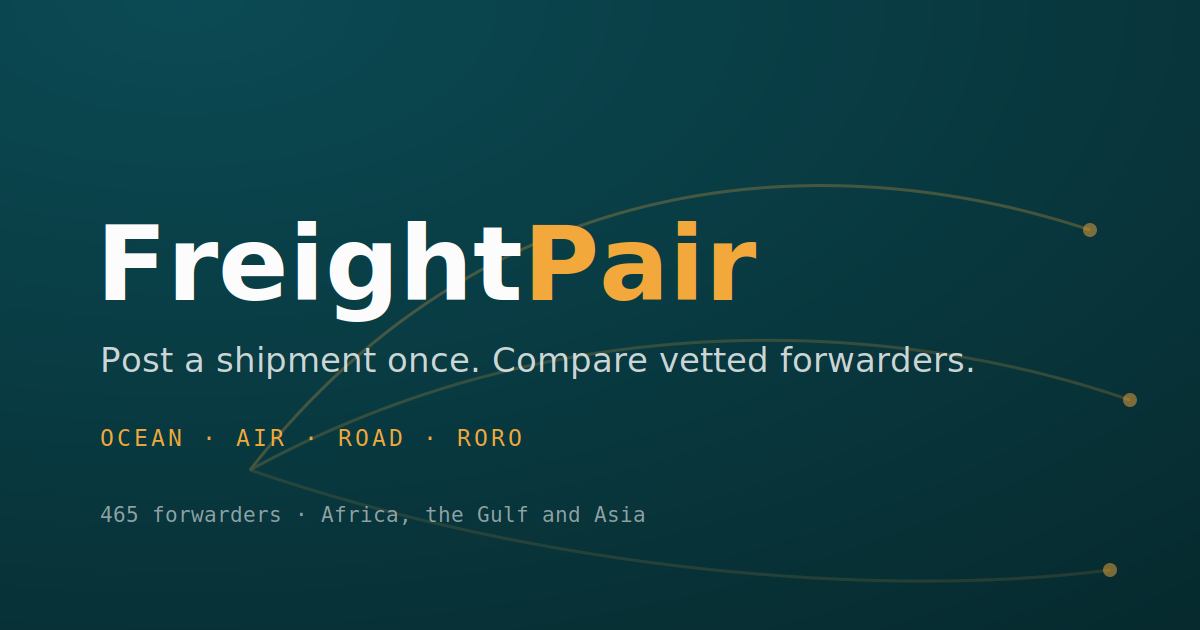
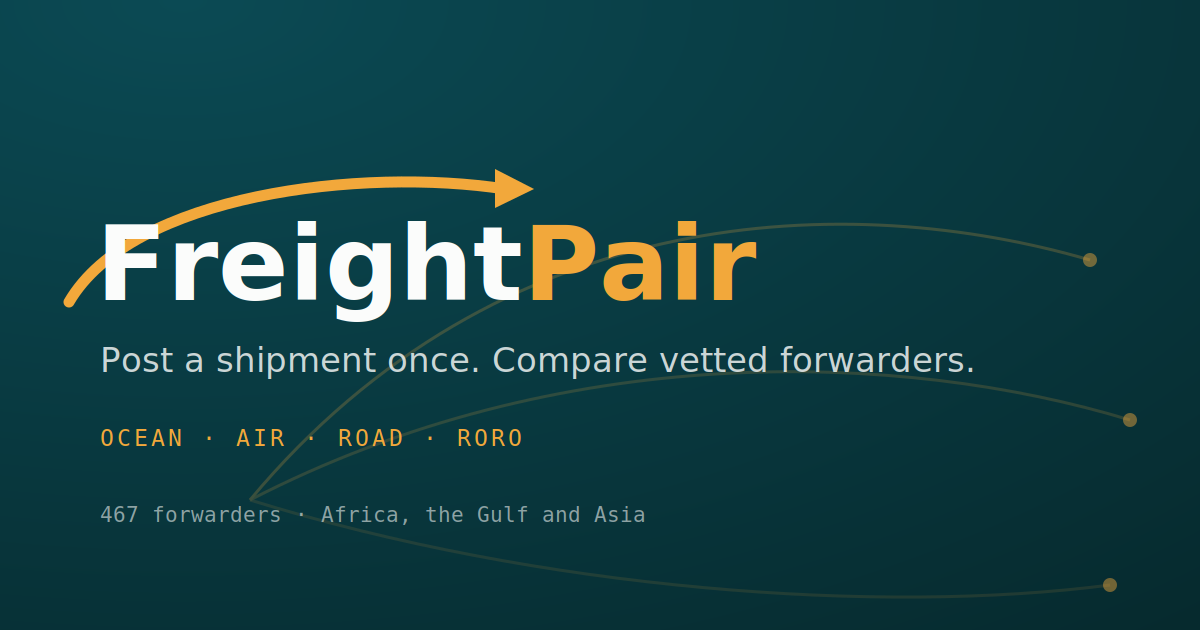
Add the route arc to the two-tone wordmark
Combines the two options: the name stays split in colour, and the saffron arc
from the route lockup now sweeps over it. The arrowhead lands where Freight
ends and Pair begins, so the journey delivers you to the pair — arc and
destination share a colour deliberately.

- The arc is an absolutely positioned SVG over real HTML text, not SVG text,
  so the name stays selectable and renders in the site's own loaded font
- All offsets are in em and derived from the artwork, so the lockup scales
  from a single font-size. leading-none is required: it pins the line box at
  1em so the baseline is predictable and the arc cannot drift
- withRoute defaults to OFF. The offsets are tuned to the lowercase wordmark;
  the auth pages set it uppercase with 0.18em tracking, which changes the
  proportions enough that the arc would miss Pair entirely. Navbar and footer
  opt in
- Favicon is now the arc and arrowhead rather than the P; arrowhead verified
  still legible at 16px
- og.png rebuilt to match

Verified the arc clears the letterforms rather than sitting on them.

diff --git a/components/Wordmark.tsx b/components/Wordmark.tsx
@@ -1,25 +1,61 @@
-// The FreightPair logo.
+// The FreightPair logo: the name in two colours, with a route arcing over it.
 //
-// There is no separate symbol: the logo IS the name, split in two colours —
-// "Freight" in ink, "Pair" in saffron. The pairing the product is named for is
-// carried by the colour break itself rather than by a mark bolted alongside it.
+// "Freight" in ink, "Pair" in saffron — the pairing the product is named for
+// is carried by the colour break itself. The saffron arc lifts off left of the
+// F, sweeps over "Freight", and its arrowhead lands where "Pair" begins. Route
+// and destination are the same colour on purpose: the journey delivers you to
+// the pair.
 //
-// Practical consequence: a two-tone treatment of our own name cannot collide
-// with anyone else's mark the way an abstract shape can, and there is no
-// symbol to redraw when the brand grows.
+// The arc is an absolutely positioned SVG sitting OVER real HTML text, rather
+// than SVG <text>. The name stays selectable, searchable and rendered in the
+// site's own font at whatever weight the browser has actually loaded.
 //
-// Sizing and tracking are passed in by the caller, because the navbar, footer
-// and auth pages each want a different treatment of the same logo.
+// Every offset below is in em, so the whole lockup scales from one font-size.
+// They are derived from the drawn artwork: the arc spans from 0.31em left of
+// the F to 4.21em right of it (where "Pair" starts), and rises 1.33em above
+// the baseline. leading-none is required — it fixes the line box at 1em so the
+// baseline sits predictably and the arc cannot drift.
+const ROUTE = {
+  left: "-0.31em",
+  top: "-0.53em",
+  width: "4.52em",
+  height: "1.42em",
+};
+
 export default function Wordmark({
   className = "font-display font-bold text-[19px] tracking-[-0.01em]",
   onDark = false,
+  withRoute = false,
 }: {
   className?: string;
   /** On dark grounds "Freight" flips to paper; ink would be invisible. */
   onDark?: boolean;
+  /**
+   * Draw the route arc. Off by default because the offsets above are tuned to
+   * the lowercase wordmark; uppercase or heavily tracked settings change the
+   * proportions and the arc would no longer land on "Pair".
+   */
+  withRoute?: boolean;
 }) {
   return (
-    <span className={className}>
+    <span className={`relative inline-block leading-none ${className}`}>
+      {withRoute && (
+        <svg
+          viewBox="0 0 394 124"
+          fill="none"
+          aria-hidden="true"
+          className="pointer-events-none absolute"
+          style={ROUTE}
+        >
+          <path
+            d="M 7 119 C 59 29, 249 7, 367 25"
+            stroke="#F2A83B"
+            strokeWidth="9"
+            strokeLinecap="round"
+          />
+          <path d="M 359 9 L 391 25 L 359 41 Z" fill="#F2A83B" />
+        </svg>
+      )}
       <span className={onDark ? "text-paper" : "text-ink"}>Freight</span>
       <span className="text-saffron">Pair</span>
     </span>

diff --git a/components/Navbar.tsx b/components/Navbar.tsx
@@ -24,7 +24,7 @@ export default function Navbar() {
     <header className="border-b border-ink/10 bg-paper relative z-20">
       <div className="mx-auto max-w-6xl px-5 h-16 flex items-center justify-between gap-4">
         <Link href="/" className="flex items-center gap-2.5 shrink-0">
-          <Wordmark className="font-display font-bold text-[19px] tracking-[-0.01em]" />
+          <Wordmark className="font-display font-bold text-[19px] tracking-[-0.01em]" withRoute />
         </Link>
 
         <nav className="hidden md:flex items-center gap-6 text-sm font-medium text-ink/70">

diff --git a/components/Footer.tsx b/components/Footer.tsx
@@ -40,7 +40,7 @@ export default function Footer() {
       <div className="mx-auto max-w-6xl px-5 py-10 grid gap-8 sm:grid-cols-[1.2fr_1fr_1fr_1fr]">
         <div>
           <div className="flex items-center gap-2">
-            <Wordmark className="font-display font-bold text-[17px] tracking-[-0.01em]" />
+            <Wordmark className="font-display font-bold text-[17px] tracking-[-0.01em]" withRoute />
           </div>
           <p className="text-sm text-ink/55 mt-3 max-w-[220px]">
             Rooted in Africa. Moving cargo worldwide.
